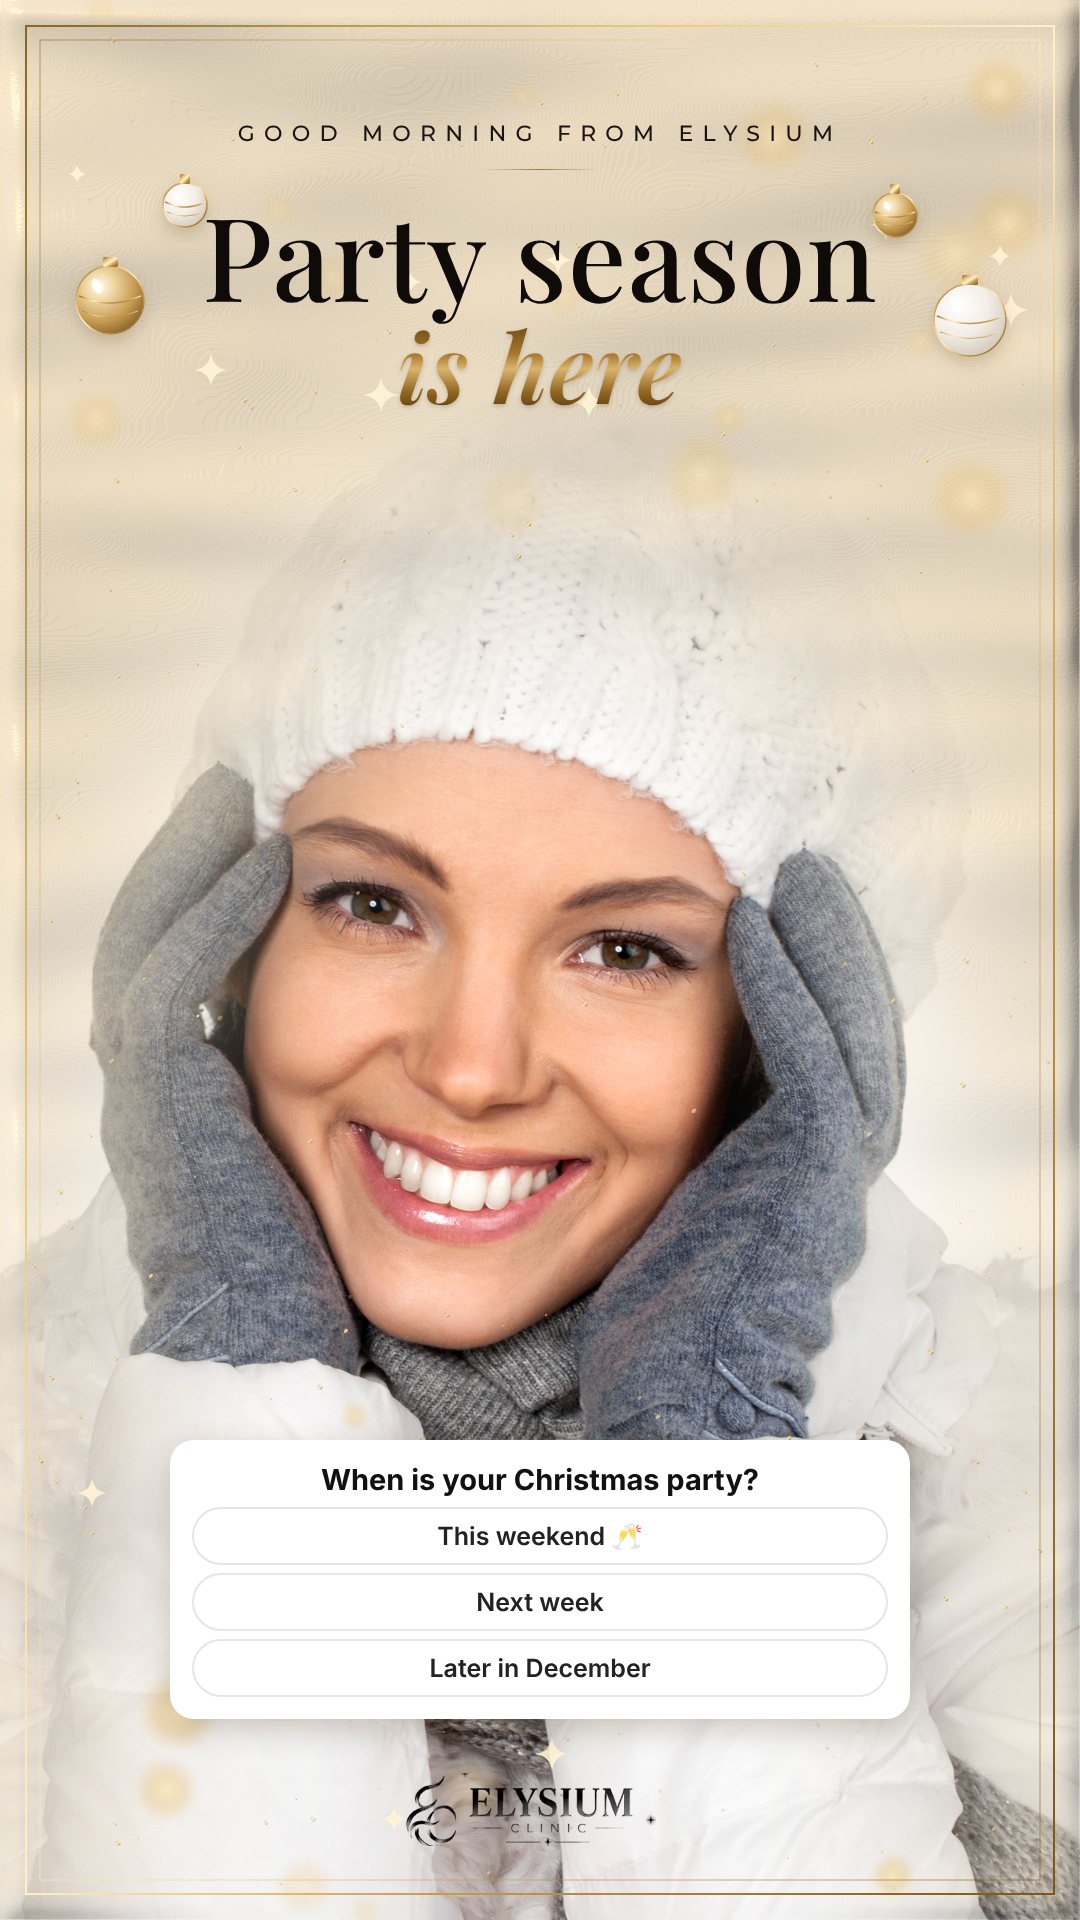
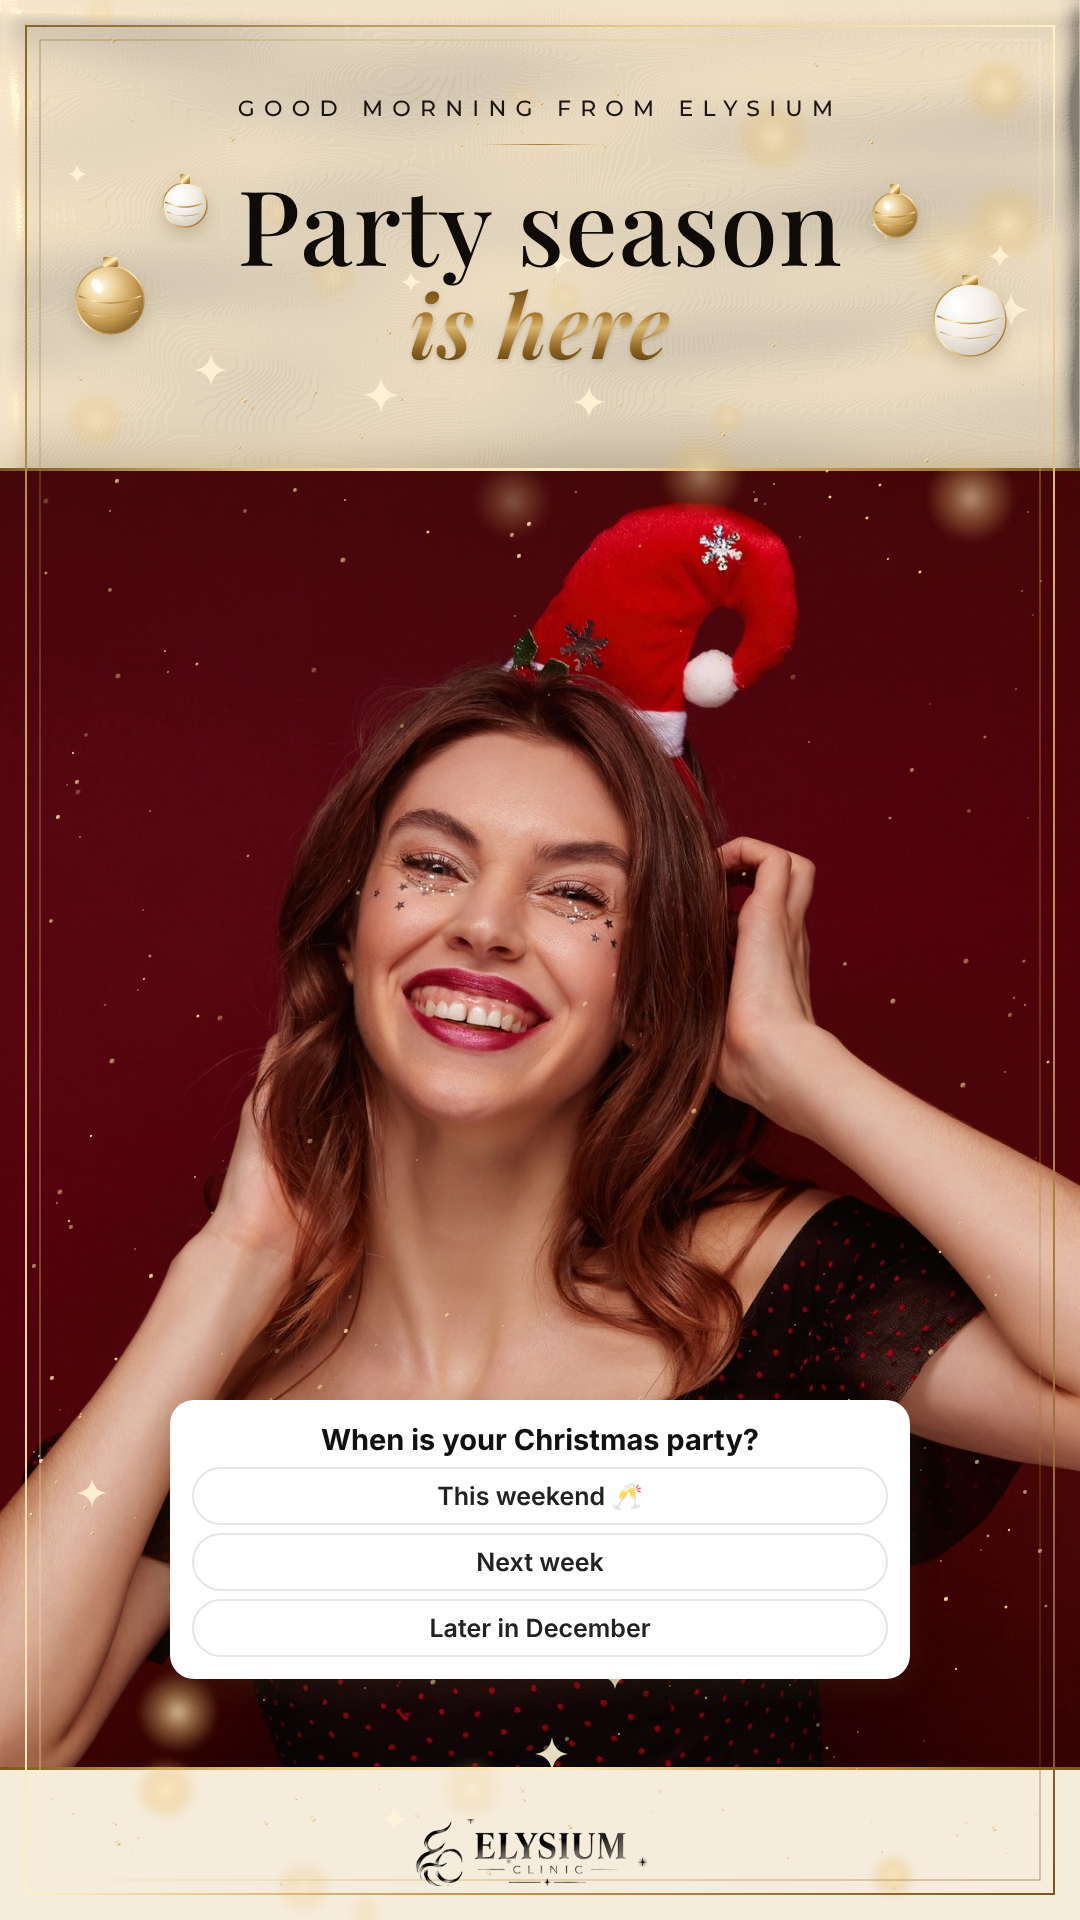
26.11: magazine-style luxury stories with party photos (8:30, 13:00)
Claude-Session: https://claude.ai/code/session_01SaUhS5EeEBn7oMfuXG8zXf

diff --git a/posts_26_11/src/s1_lux.html b/posts_26_11/src/s1_lux.html
@@ -2,23 +2,25 @@
 .s{background:#f3e6cf}
 .tex{position:absolute;inset:0}
 
-.top{position:absolute;top:120px;left:0;right:0;text-align:center;color:#111}
+.top{position:absolute;top:95px;left:0;right:0;text-align:center;color:#111}
 .k{font-size:22px;letter-spacing:.42em;font-weight:500;color:#1a1410}
 .k2{width:120px;height:1px;background:linear-gradient(90deg,transparent,#a37b3a,transparent);margin:22px auto 0}
-.h{font-family:'Playfair Display',serif;font-size:116px;font-weight:500;line-height:1;margin-top:26px;color:#0e0b08;letter-spacing:.01em}
-.h em{display:block;font-style:italic;font-weight:600;font-size:96px;margin-top:4px;background:linear-gradient(180deg,#5e400f 0%,#a8782e 40%,#d9b46c 55%,#8f6421 80%,#5a3c10 100%);-webkit-background-clip:text;color:transparent;filter:drop-shadow(0 2px 2px rgba(80,55,20,.25))}
-.ph{position:absolute;left:0;right:0;top:330px;height:1620px;background:url(winter2_soft.png) center top/1080px auto no-repeat}
+.h{font-family:'Playfair Display',serif;font-size:104px;font-weight:500;line-height:1;margin-top:26px;color:#0e0b08;letter-spacing:.01em}
+.h em{display:block;font-style:italic;font-weight:600;font-size:88px;margin-top:4px;background:linear-gradient(180deg,#5e400f 0%,#a8782e 40%,#d9b46c 55%,#8f6421 80%,#5a3c10 100%);-webkit-background-clip:text;color:transparent;filter:drop-shadow(0 2px 2px rgba(80,55,20,.25))}
+.ph{position:absolute;left:0;right:0;top:470px;height:1300px;background:url(party_woman.jpg) center 8%/1080px auto no-repeat;box-shadow:0 -10px 40px rgba(80,55,20,.25)}
+.gl{position:absolute;left:0;right:0;height:3px;background:linear-gradient(90deg,#7a561c,#e9c983,#fff0c8,#c99a4b,#7a561c)}
+.band{position:absolute;left:0;right:0;bottom:0;height:150px;background:#f6ecdc}
 .fadeT{position:absolute;left:0;right:0;top:300px;height:260px;background:linear-gradient(180deg,rgba(248,242,232,0) 0%,rgba(248,242,232,.85) 30%,rgba(248,242,232,0) 100%)}
 .fadeB{position:absolute;left:0;right:0;bottom:0;height:520px;background:linear-gradient(0deg,rgba(250,247,242,.92) 0%,rgba(250,247,242,.7) 45%,rgba(250,247,242,0) 100%)}
 .sub{position:absolute;left:0;right:0;top:1420px;text-align:center;font-family:'Playfair Display',serif;font-style:italic;font-size:40px;color:#1a1410}
-.zone{position:absolute;left:0;right:0;text-align:center;font-size:20px;letter-spacing:.34em;color:#8a6a35;font-weight:600}
-.stk{position:absolute;left:170px;right:170px;top:1440px;background:#fff;border-radius:24px;padding:22px;font-family:-apple-system,Helvetica,Arial,sans-serif;text-align:center;box-shadow:0 10px 30px rgba(80,60,30,.25)}
+.zone{position:absolute;left:0;right:0;text-align:center;font-size:20px;letter-spacing:.34em;color:#f3d9a4;font-weight:600;text-shadow:0 2px 8px rgba(0,0,0,.6)}
+.stk{position:absolute;left:170px;right:170px;top:1400px;background:#fff;border-radius:24px;padding:22px;font-family:-apple-system,Helvetica,Arial,sans-serif;text-align:center;box-shadow:0 10px 30px rgba(80,60,30,.25)}
 .stk .qq{font-size:29px;font-weight:700;color:#111;margin-bottom:10px}
 .stk .o{border:2px solid #e6e6e6;border-radius:40px;padding:12px 22px;font-size:25px;font-weight:600;color:#222;margin-top:8px}
-.lg2{position:absolute;left:0;right:0;bottom:70px;text-align:center}
-.lg2 img{width:270px;filter:brightness(0) saturate(100%)}
+.lg2{position:absolute;left:0;right:0;bottom:30px;text-align:center}
+.lg2 img{width:250px;filter:brightness(0) saturate(100%)}
 </style></head><body><div class="s">
-<img class="tex" src="satin_bg.svg" style="width:1080px;height:1920px"><div class="ph"></div><img src="sparkle.svg" style="position:absolute;inset:0;width:1080px;height:1920px">
+<img class="tex" src="satin_bg.svg" style="width:1080px;height:1920px"><div class="ph"></div><div class="gl" style="top:468px"></div><div class="band"></div><div class="gl" style="bottom:150px"></div><img src="sparkle.svg" style="position:absolute;inset:0;width:1080px;height:1920px">
 <img src="lux_decor_bg.svg" style="position:absolute;inset:0;width:1080px;height:1920px">
 <div class="top"><div class="k">GOOD MORNING FROM ELYSIUM</div><div class="k2"></div><div class="h">Party season<em>is here</em></div></div>
 __STK__

diff --git a/posts_26_11/src/s2_lux.html b/posts_26_11/src/s2_lux.html
@@ -1,0 +1,34 @@
+<!doctype html><html lang="en"><head><meta charset="utf-8"><link href="https://fonts.googleapis.com/css2?family=Playfair+Display:ital,wght@0,500;0,600;0,700;1,500;1,600&family=Montserrat:wght@400;500;600;700&display=block" rel="stylesheet"><link rel="stylesheet" href="common.css"><style>
+.s{background:#f3e6cf}
+.tex{position:absolute;inset:0}
+.ph{position:absolute;left:0;right:0;top:430px;height:640px;background:url(party_girls.jpg) center -300px/1080px auto no-repeat}
+.gl{position:absolute;left:0;right:0;height:3px;background:linear-gradient(90deg,#7a561c,#e9c983,#fff0c8,#c99a4b,#7a561c)}
+.top{position:absolute;top:95px;left:0;right:0;text-align:center}
+.k{font-size:22px;letter-spacing:.42em;font-weight:500;color:#1a1410}
+.k2{width:120px;height:1px;background:linear-gradient(90deg,transparent,#a37b3a,transparent);margin:20px auto 0}
+.h{font-family:'Playfair Display',serif;font-size:96px;font-weight:500;line-height:1;margin-top:22px;color:#0e0b08}
+.h em{display:block;font-style:italic;font-weight:600;font-size:80px;margin-top:4px;background:linear-gradient(180deg,#5e400f 0%,#a8782e 40%,#d9b46c 55%,#8f6421 80%,#5a3c10 100%);-webkit-background-clip:text;color:transparent}
+.rules{position:absolute;left:90px;right:90px;top:1110px}
+.r{display:flex;align-items:center;gap:28px;padding:18px 0;border-bottom:1px solid rgba(163,123,58,.4)}
+.r:last-child{border-bottom:none}
+.r .n{font-family:'Playfair Display',serif;font-size:64px;font-weight:600;width:50px;text-align:center;background:linear-gradient(180deg,#5e400f,#c99a4b,#5a3c10);-webkit-background-clip:text;color:transparent}
+.r .t{font-size:29px;line-height:1.3;color:#2a2018}
+.r .t b{display:block;font-weight:700;color:#0e0b08;font-size:31px;letter-spacing:.02em}
+.zone{position:absolute;left:0;right:0;text-align:center;font-size:20px;letter-spacing:.34em;color:#8a6a35;font-weight:600}
+.stk{position:absolute;left:170px;right:170px;top:1560px;background:#fff;border-radius:24px;padding:22px;font-family:-apple-system,Helvetica,Arial,sans-serif;text-align:center;box-shadow:0 10px 30px rgba(80,60,30,.25)}
+.stk .qq{font-size:29px;font-weight:700;color:#111}
+.stk .bar{position:relative;height:12px;border-radius:6px;background:linear-gradient(90deg,#e8b878 0 55%,#e6e6e6 55%);margin:28px 10px 8px}
+.stk .bar i{position:absolute;left:55%;top:50%;transform:translate(-50%,-50%);font-style:normal;font-size:52px}
+.lg2{position:absolute;left:0;right:0;bottom:30px;text-align:center}
+.lg2 img{width:230px;filter:brightness(0) saturate(100%)}
+</style></head><body><div class="s">
+<img class="tex" src="satin_bg.svg" style="width:1080px;height:1920px">
+<div class="ph"></div><div class="gl" style="top:428px"></div><div class="gl" style="top:1070px"></div>
+<img src="lux_decor_bg.svg" style="position:absolute;inset:0;width:1080px;height:1920px">
+<div class="top"><div class="k">PARTY SKIN PREP</div><div class="k2"></div><div class="h">3 golden rules<em>before the party</em></div></div>
+<div class="rules">
+<div class="r"><div class="n">1</div><div class="t"><b>No new products</b>in the week before the party</div></div>
+<div class="r"><div class="n">2</div><div class="t"><b>Book your glow facial</b>1–3 days before the big night</div></div>
+<div class="r"><div class="n">3</div><div class="t"><b>Hydrate inside &amp; out</b>water + a barrier-loving moisturiser</div></div></div>
+__STK__
+<div class="lg2"><img src="logo.png"></div></div></body></html>

diff --git a/posts_26_11/src/render.js b/posts_26_11/src/render.js
@@ -6,7 +6,7 @@ const POLL='<div class="stk" style="top:1270px"><div class="qq">When is your Chr
 const SLIDE='<div class="stk" style="top:1390px"><div class="qq">How party-ready is your skin?</div><div class="bar"><i>✨</i></div></div>';
 const LUXPOLL='<div class="stk"><div class="qq">When is your Christmas party?</div><div class="o">This weekend 🥂</div><div class="o">Next week</div><div class="o">Later in December</div></div>';
 const jobs=[['s1_lux','story1_0830_party_poll.png','<div class="zone" style="top:1560px">↓ POLL ↓</div>'],['s1_lux','podglad_story1_ankieta.png',LUXPOLL],
- ['s2_1300','story2_1300_party_prep.png',z(1430)+'↓ EMOJI SLIDER ↓</div>'],['s2_1300','podglad_story2_suwak.png',SLIDE],
+ ['s2_lux','story2_1300_party_prep.png','<div class="zone" style="top:1610px">↓ EMOJI SLIDER ↓</div>'],['s2_lux','podglad_story2_suwak.png','<div class="stk"><div class="qq">How party-ready is your skin?</div><div class="bar"><i>✨</i></div></div>'],
  ['s3_2030','story3_2030_party_oferta.png','']];
 (async()=>{const b=await chromium.launch();
 for(const [n,out,stk] of jobs){const p=await b.newPage({viewport:{width:1080,height:1920}});

diff --git a/posts_26_11/teksty.md b/posts_26_11/teksty.md
@@ -44,13 +44,13 @@ Results vary from person to person.
 ---
 
 ## STORY 1 (8:30): `story1_0830_party_poll.png`
-- Wersja luksusowa i jasna: tło kość słoniowa/szampan, czarny tekst i czarne logo, zdjęcie jako pełne tło (bez ramki), złote i perłowe bombki na nitkach, złoty pył i cienka złota ramka. „Good morning from Elysium · Party season is here”.
+- Styl okładki magazynu: u góry jasny panel z satyną i czarnym tekstem („Good morning from Elysium · Party season is here”, „is here” złotą folią), na środku zdjęcie kobiety przed imprezą (bordowe tło) między złotymi liniami, na dole jasny pas z czarnym logo. Złote i perłowe bombki, złoty pył.
 - **Naklejka Ankieta** w miejscu „POLL ↓”: „When is your Christmas party?”, odpowiedzi **This weekend 🥂 / Next week / Later in December**.
 - Każdej osobie, która zagłosuje, możesz odpisać, który zabieg pasuje do jej daty (jak w rolce).
 - Podgląd: `podglad_story1_ankieta.png`.
 
 ## STORY 2 (13:00): `story2_1300_party_prep.png`
-- „3 golden rules before the party”: bez nowych kosmetyków w tygodniu przed imprezą, zabieg na blask 1–3 dni przed, nawilżanie od środka i z zewnątrz.
+- Ten sam luksusowy styl: „3 golden rules before the party”, zdjęcie trzech dziewczyn na imprezie, pod spodem 3 zasady (bez nowych kosmetyków tydzień przed, zabieg na blask 1–3 dni przed, nawilżanie), czarne logo.
 - **Naklejka Suwak emoji** ✨ w miejscu „EMOJI SLIDER ↓”: „How party-ready is your skin?”.
 - Podgląd: `podglad_story2_suwak.png`.
 
